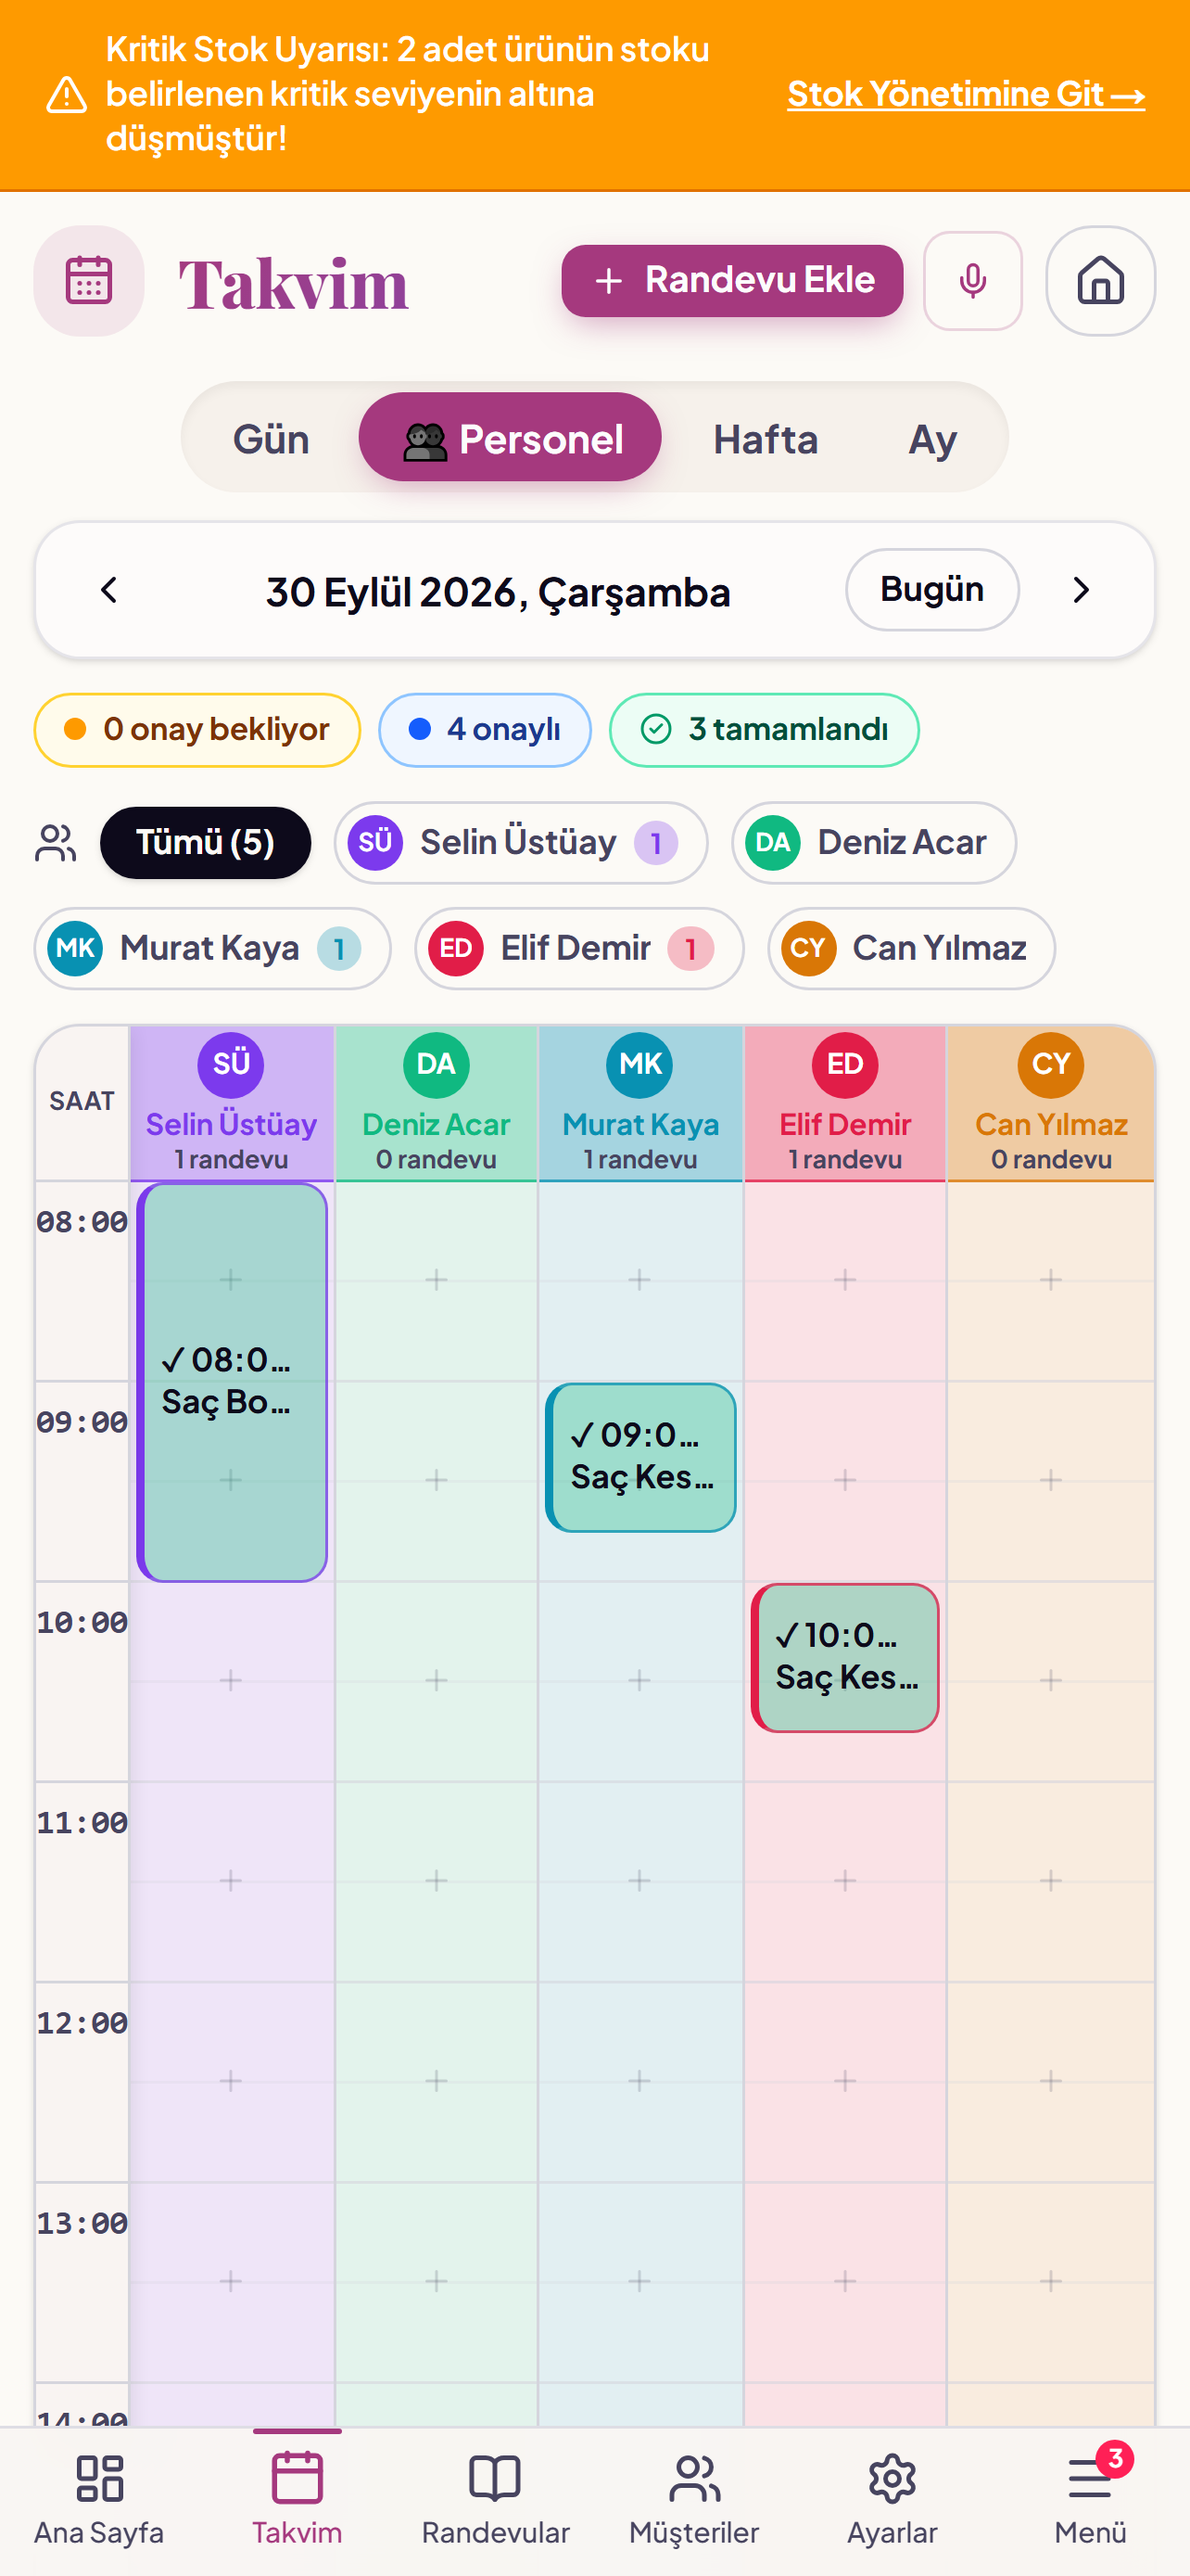
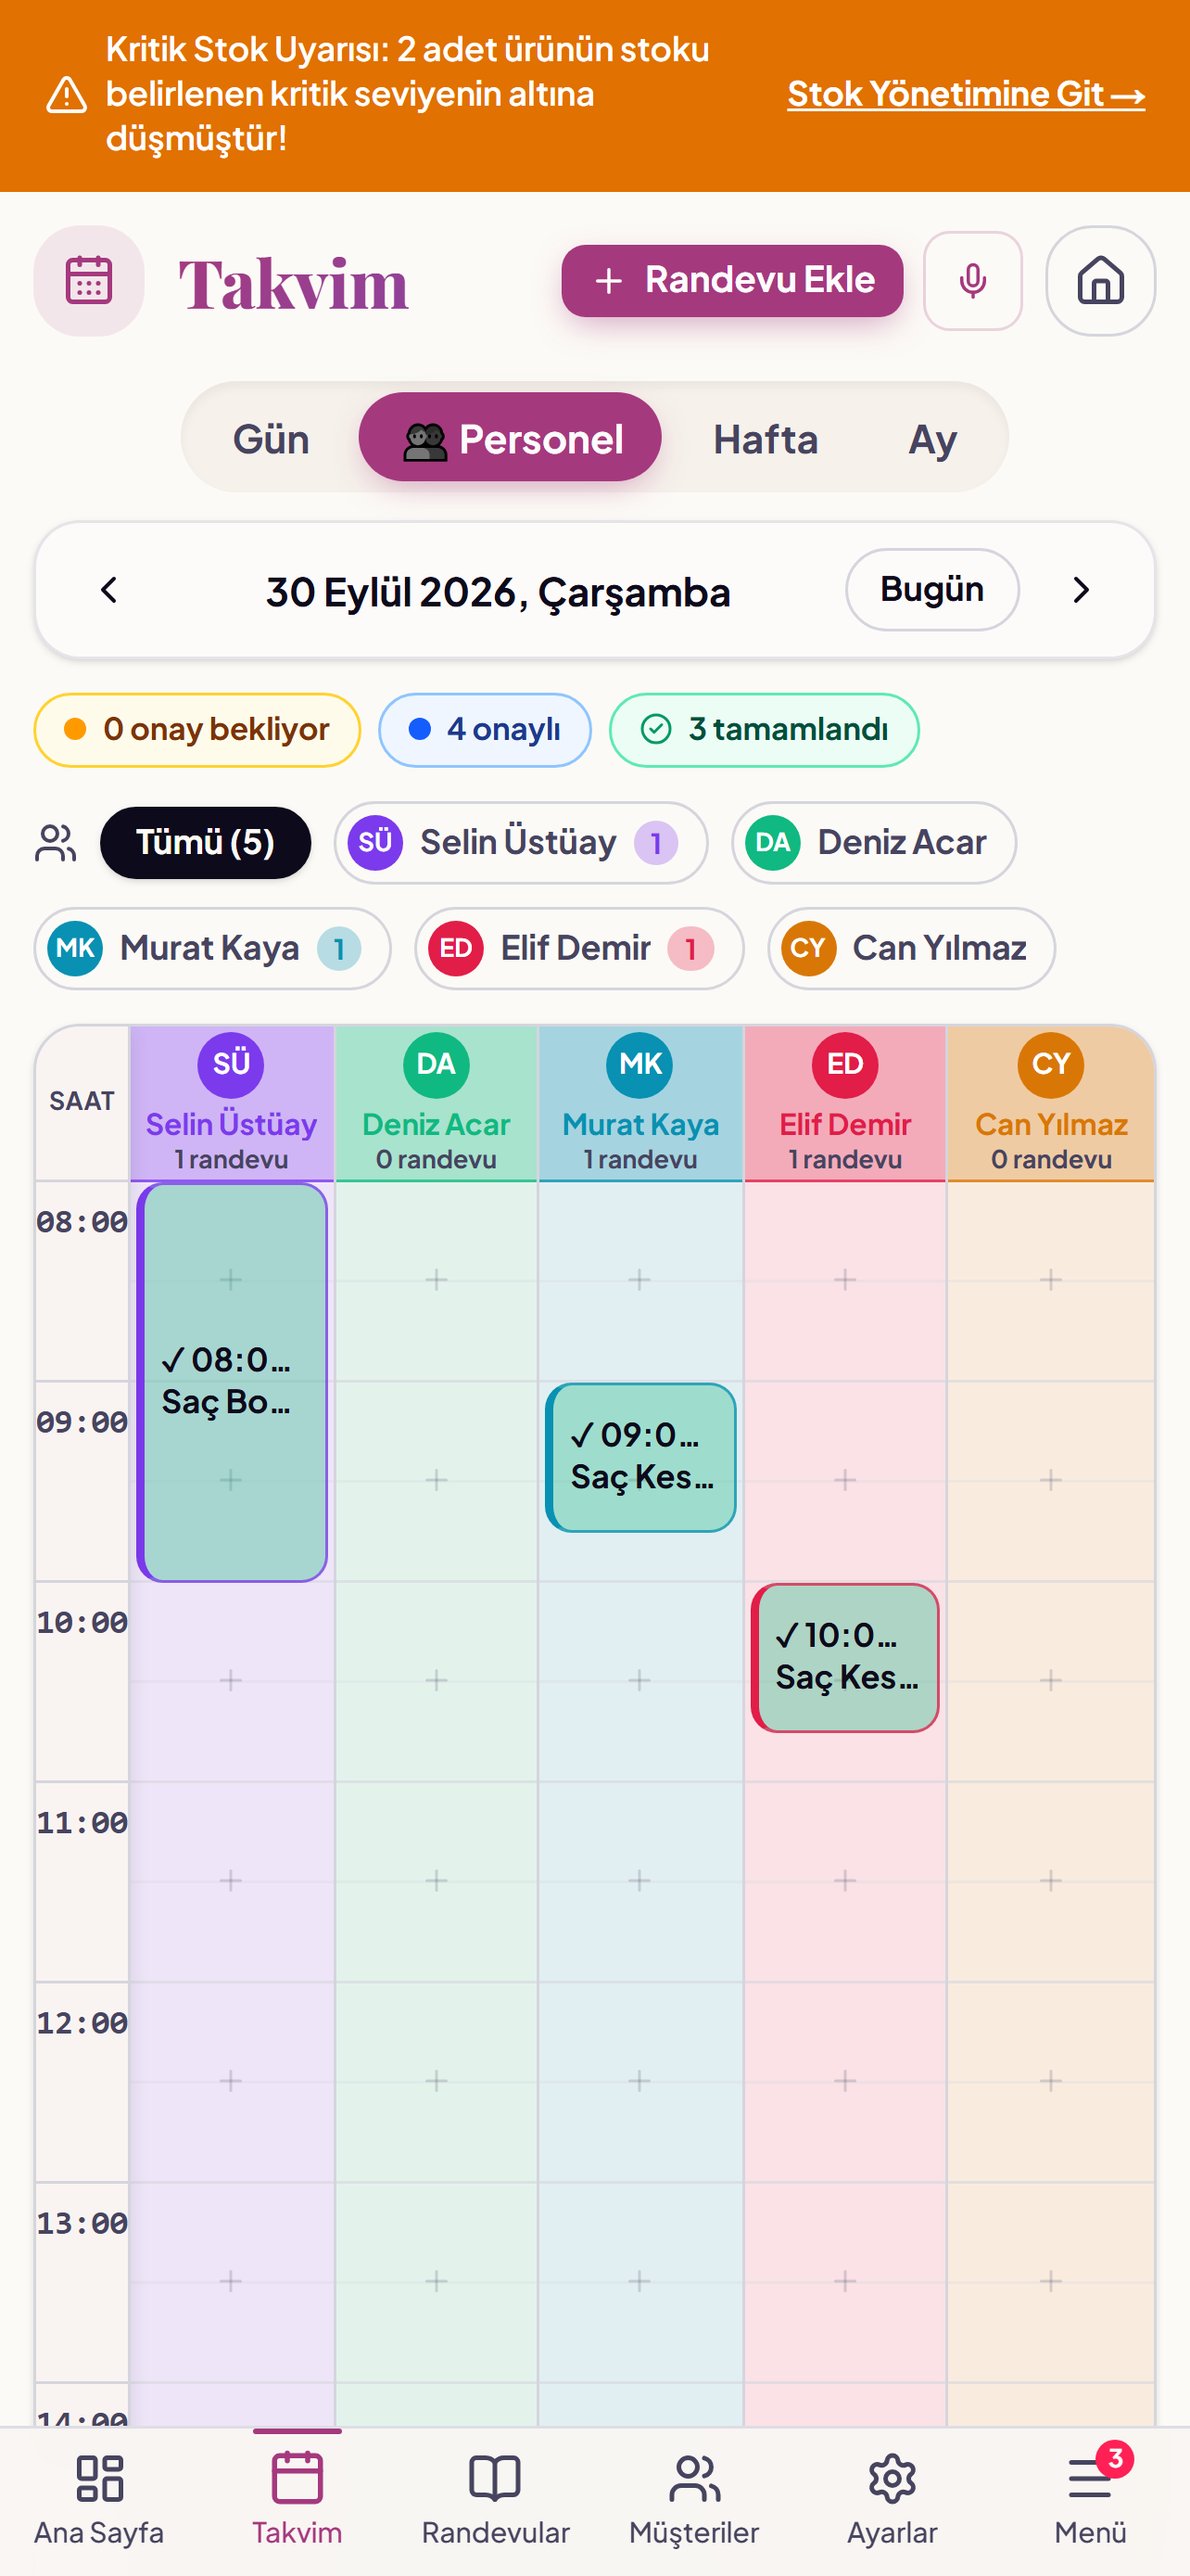
docs(app-store): takvim görseli Personel görünümü (Ay görseli kaldırıldı), betik görünümü doğruluyor

Changed region(s): [[0.0, 0.0, 1.0, 0.0929]]

diff --git a/docs/app-store/DEVAM-NOTLARI.md b/docs/app-store/DEVAM-NOTLARI.md
@@ -9,9 +9,10 @@ Yeni oturumda bu dosyadan devam et.
 - PR #81 ve #82 main'e merge edildi (iOS'ta nötr ikon, çift sayım düzeltmesi, güvenlik/muhasebe, RU/AR WA).
 - Migration `20260930_revert_auto_income_on_uncomplete.sql` canlıda çalıştırıldı.
 - Demo "Bysiri" randevuları iptal edildi (kayıtlar silinmedi, "İptal" olarak listede duruyor).
-- Ekran görüntüleri güncel: `screenshots-iphone-1284x2778/` ve `screenshots-ipad-2064x2752/` (11'er dosya:
-  01 anasayfa, 02 takvim, 03 takvimay, 04 musteriler, 05 hizmetler, 06 personel, 07 stok, 08 kampanyalar,
-  09 paketler, 10 randevular, 12 raporlar). `03-takvimay` artık gerçekten Ay görünümü (betik tıklamayı doğruluyor).
+- Ekran görüntüleri güncel: `screenshots-iphone-1284x2778/` ve `screenshots-ipad-2064x2752/` (10'ar dosya:
+  01 anasayfa, 02 takvim, 04 musteriler, 05 hizmetler, 06 personel, 07 stok, 08 kampanyalar,
+  09 paketler, 10 randevular, 12 raporlar). `02-takvim` PERSONEL bazlı takvim (betik her çalıştırmada Personel
+  görünümünü seçip doğruluyor); Ay görünümü görseli kaldırıldı (kullanıcı Personel istedi).
   Görsellerde "Bysiri"/WhatsApp/Instagram/Siri **görünmüyor** (gözle doğrulandı). `10-randevular` sayfa metninde
   hâlâ iptal edilmiş "Bysiri" satırı var ama listenin altında, görüntüye girmiyor.
 - Kampanya geçmişinde TASLAK satırlarına silme düğmesi eklendi (`DELETE /api/campaigns/[id]`, yalnızca draft,
